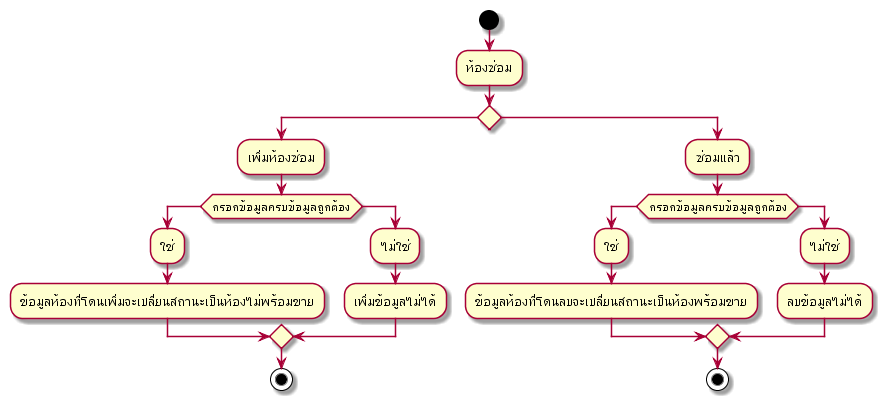
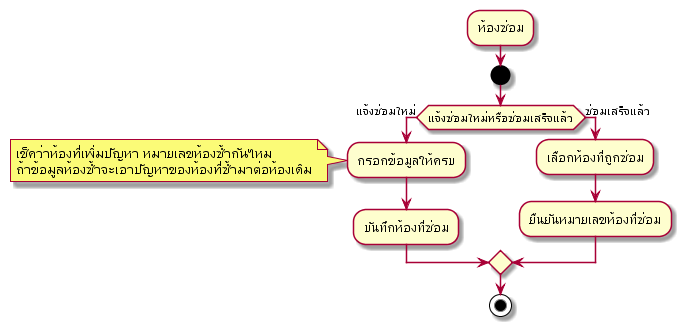
room && reservation

diff --git a/activity-diagram/room/outofder.md b/activity-diagram/room/outofder.md
@@ -1,24 +1,16 @@
 @startuml
-start
 :ห้องซ่อม;
-if () then
-:เพิ่มห้องซ่อม;
-if (กรอกข้อมูลครบข้อมูลถูกต้อง) then
-:ใช่;
-:ข้อมูลห้องที่โดนเพิ่มจะเปลี่ยนสถานะเป็นห้องไม่พร้อมขาย;
-else ()
-:ไม่ใช่;
-:เพิ่มข้อมูลไม่ได้;
-endif
-stop
-else ()
-:ซ่อมแล้ว;
-if (กรอกข้อมูลครบข้อมูลถูกต้อง) then
-:ใช่;
-:ข้อมูลห้องที่โดนลบจะเปลี่ยนสถานะเป็นห้องพร้อมขาย;
-else ()
-:ไม่ใช่;
-:ลบข้อมูลไม่ได้;
+start
+if(แจ้งซ่อมใหม่หรือซ่อมเสร็จแล้ว) then (แจ้งซ่อมใหม่)
+:กรอกข้อมูลให้ครบ;
+note left
+เช็คว่าห้องที่เพิ่มปัญหา หมายเลขห้องซ้ำกันไหม
+ถ้าข้อมูลห้องซ้ำจะเอาปัญหาของห้องที่ซ้ำมาต่อห้องเดิม
+end note
+:บันทึกห้องที่ซ่อม;
+else(ซ่อมเสร็จแล้ว)
+:เลือกห้องที่ถูกซ่อม;
+:ยืนยันหมายเลขห้องที่ซ่อม;
 endif
 stop
 @enduml

diff --git a/activity-diagram/room/executive.md b/activity-diagram/room/executive.md
@@ -1,24 +1,15 @@
 @startuml
-start
 :ห้องพักผู้บริหาร;
-if () then
-:เพิ่มห้อง;
-if (กรอกข้อมูลครบข้อมูลถูกต้อง) then
-:ใช่;
-:ข้อมูลห้องที่โดนเพิ่มจะเปลี่ยนสถานะเป็นห้องไม่พร้อมขาย;
-else ()
-:ไม่ใช่;
-:เพิ่มข้อมูลไม่ได้;
-endif
-stop
-else ()
-:ลบห้อง;
-if (กรอกข้อมูลครบข้อมูลถูกต้อง) then
-:ใช่;
-:ข้อมูลห้องที่โดนลบจะเปลี่ยนสถานะเป็นห้องพร้อมขาย;
-else ()
-:ไม่ใช่;
-:ลบข้อมูลไม่ได้;
+start
+if(เข้าห้องใหม่หรือย้ายออก) then (ห้องเข้าใหม่)
+:กรอกข้อมูลให้ครบ;
+note left
+เช็คว่าห้องซ้ำไหม ถ้าซ้ำเพิ่มไม่ได้
+end note
+:บันทึกห้องพักผู้บริหาร;
+else(ย้ายออก)
+:เลือกห้องที่ย้ายออก;
+:ยืนยันหมายเลขห้องที่ย้ายออก;
 endif
 stop
 @enduml

diff --git a/activity-diagram/reservation/reservation.md b/activity-diagram/reservation/reservation.md
@@ -1,0 +1,30 @@
+@startuml
+start
+:การจอง;
+split
+:เพิ่มการจอง;
+:กรอกข้อมูลให้ถูกต้อง
+
+**หมายเหตุ**
+1. จะเลือกห้องได้ต้องใส่วันที่เข้ากับวันที่ออก
+2. ทั้งในกรณีจ่ายเงินสำรองและไม่จ่ายเงินสำรอง;
+
+    
+:คิดเงิน;
+stop 
+split again
+:แก้ไขข้อมูลการจอง
+
+**หมายเหตุ**
+1. จะเลือกห้องได้ต้องใส่วันที่เข้ากับวันที่ออก
+2. ทั้งในกรณีจ่ายเพิ่มเงินสำรองและไม่จ่ายเพิ่มเงินสำรอง;
+
+:คิดเงิน;
+stop
+split again
+:ยกเลิกการจอง;
+:ยืนยืนการยกเลิกการจอง;
+stop
+end split
+
+@enduml

diff --git a/README.md b/README.md
@@ -35,3 +35,10 @@
 ![Extra diagram](out/activity-diagram/room/executive/executive.png)
 
 ---
+
+### Reservation
+
+#### Reservation 
+![Extra diagram](out/activity-diagram/reservation/reservation/reservation.png)
+
+---
